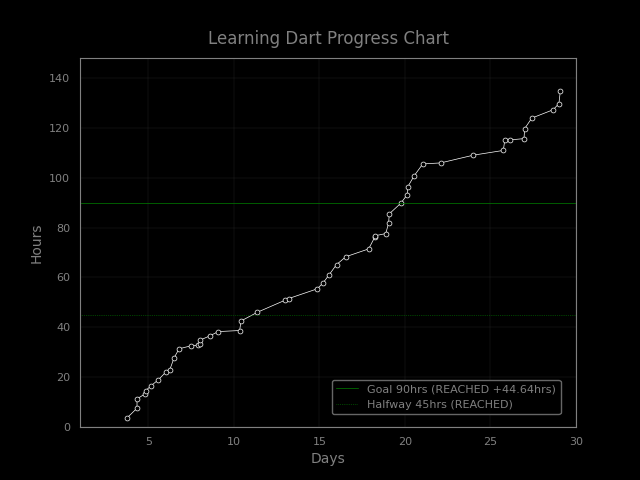
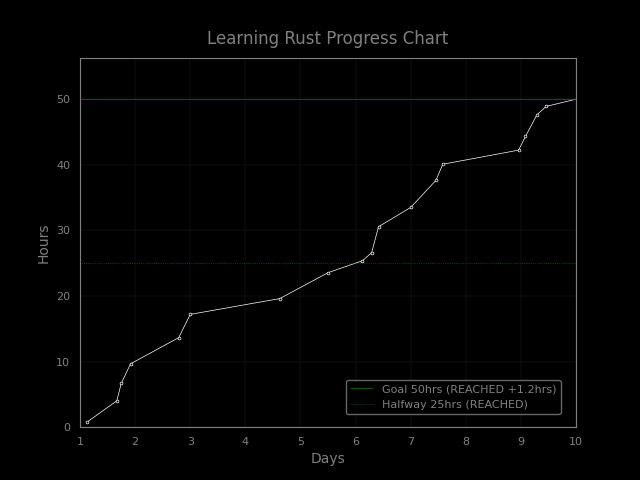
Update & Clean testGoal

diff --git a/GoalBot.py b/GoalBot.py
@@ -1,30 +1,23 @@
+from Goal import Goal
 import datetime
 import random 
-import matplotlib.pyplot as plt
-import matplotlib as mpl
-import logging
-from Goal import Goal
 
-from numpy import sort 
-import CustomFormatter 
-
-# Initiate logger with custom formatter
-log = logging.getLogger('acountitbot')
-log.setLevel(logging.DEBUG)
-ch = logging.StreamHandler()
-ch.setLevel(logging.DEBUG)
-ch.setFormatter(CustomFormatter.CustomFormatter())
-log.addHandler(ch)
 
 def testGoal():
-    g = Goal(30, 90, "Learning Dart")
+
+    goalDuration = 10
+    hourGoal = 50
+    goalTitle = 'Learning Rust'
+    daysOff = 0
+
+    goal = Goal(goalDuration, hourGoal, goalTitle, daysOff)
 
     # Add random entries to goal
-    for i in range(50):
-        g.addHours(datetime.datetime.utcnow() + datetime.timedelta(days=random.randint(0, 30), hours=random.randint(0, 24)), random.uniform(.1, 5))
+    for i in range(20):
+        goal.addHours(datetime.datetime.utcnow() + datetime.timedelta(days=random.randint(0, goalDuration-1), hours=random.randint(0, 24)), random.uniform(.1, 5))
 
-    g.showPlot()
-    g.savePlot('./Media/plot.png')
+    goal.showPlot()
+    goal.savePlot('./Media/plot.png')
 
 if __name__ == "__main__":
     testGoal()

diff --git a/Goal.py b/Goal.py
@@ -1,9 +1,9 @@
+from numpy import sort 
+from logger import log
 import datetime
 import matplotlib.pyplot as plt
 import matplotlib as mpl
 import logging
-from numpy import sort 
-from logger import log
 
 
 class Goal:
@@ -126,7 +126,7 @@ class Goal:
         plt.ylabel('Hours')
 
         # Plot data
-        plt.plot(x, y, '-o', color='white', markersize=3.5, markerfacecolor='black', markeredgecolor='white', markeredgewidth=0.5)
+        plt.plot(x, y, '-o', color='white', markersize=2, markerfacecolor='black', markeredgecolor='white', markeredgewidth=0.5)
 
         # Draw goal line at goal, if goal is reached, draw line in green, else draw in red
         if y[-1] > self.hourGoal:
